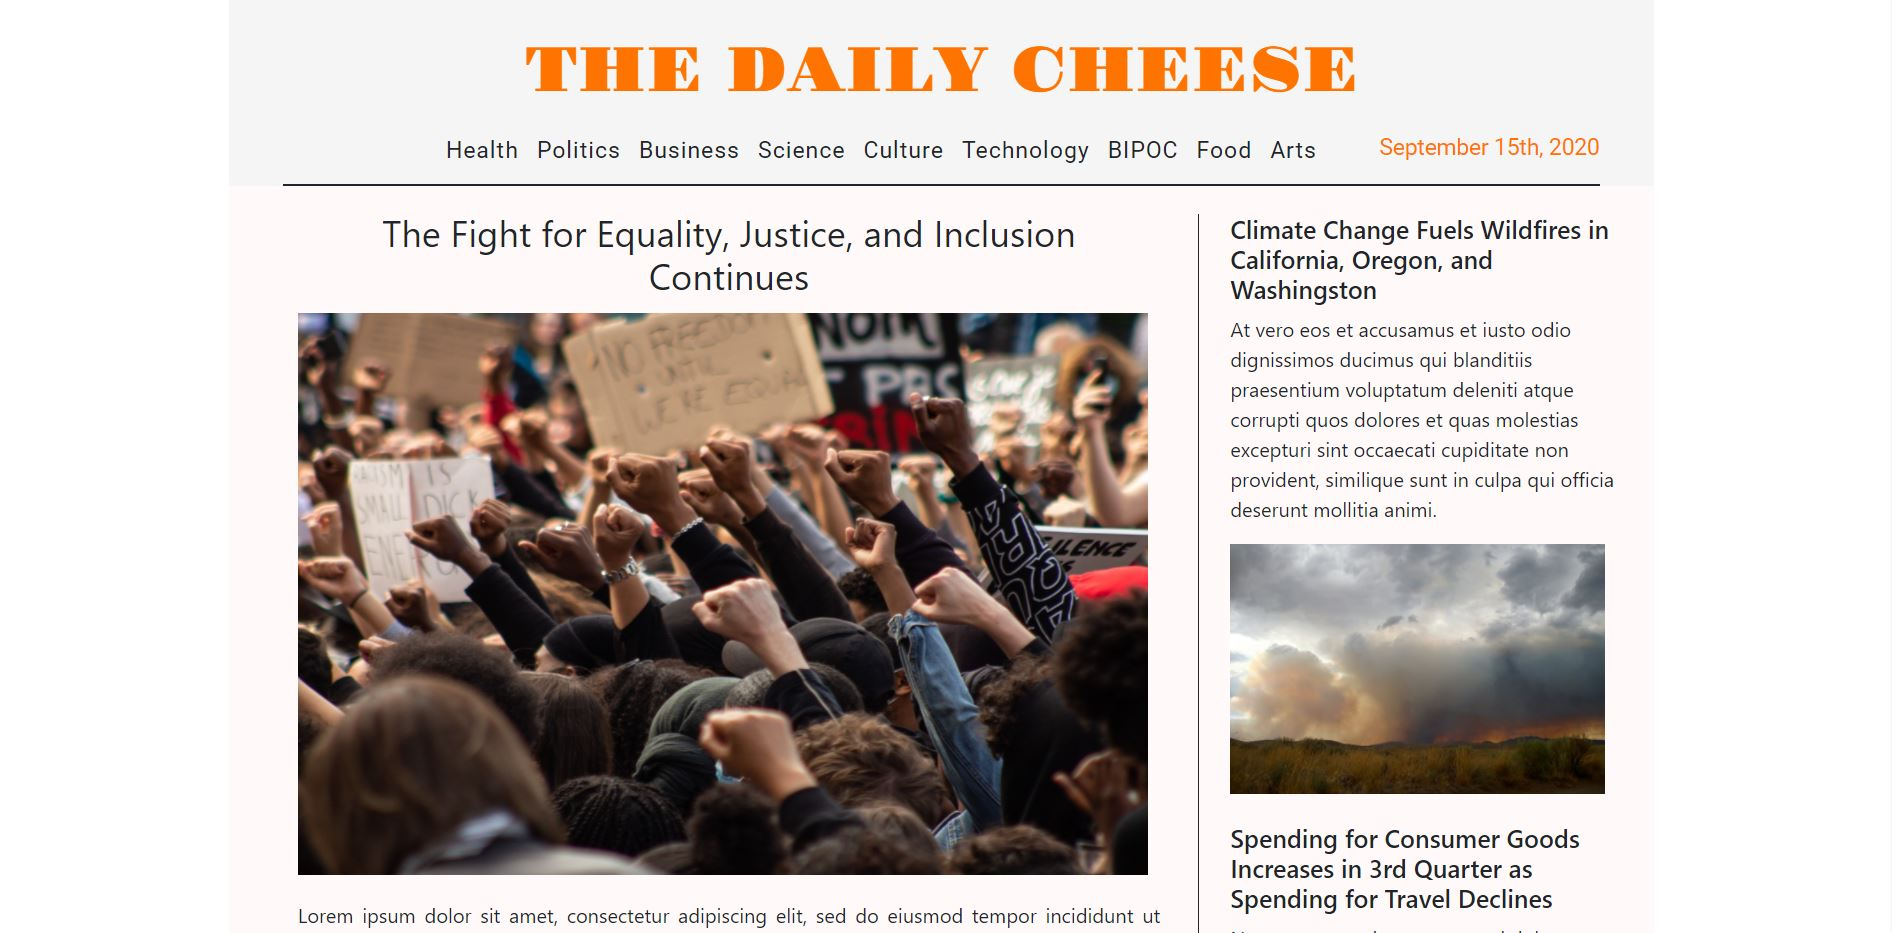
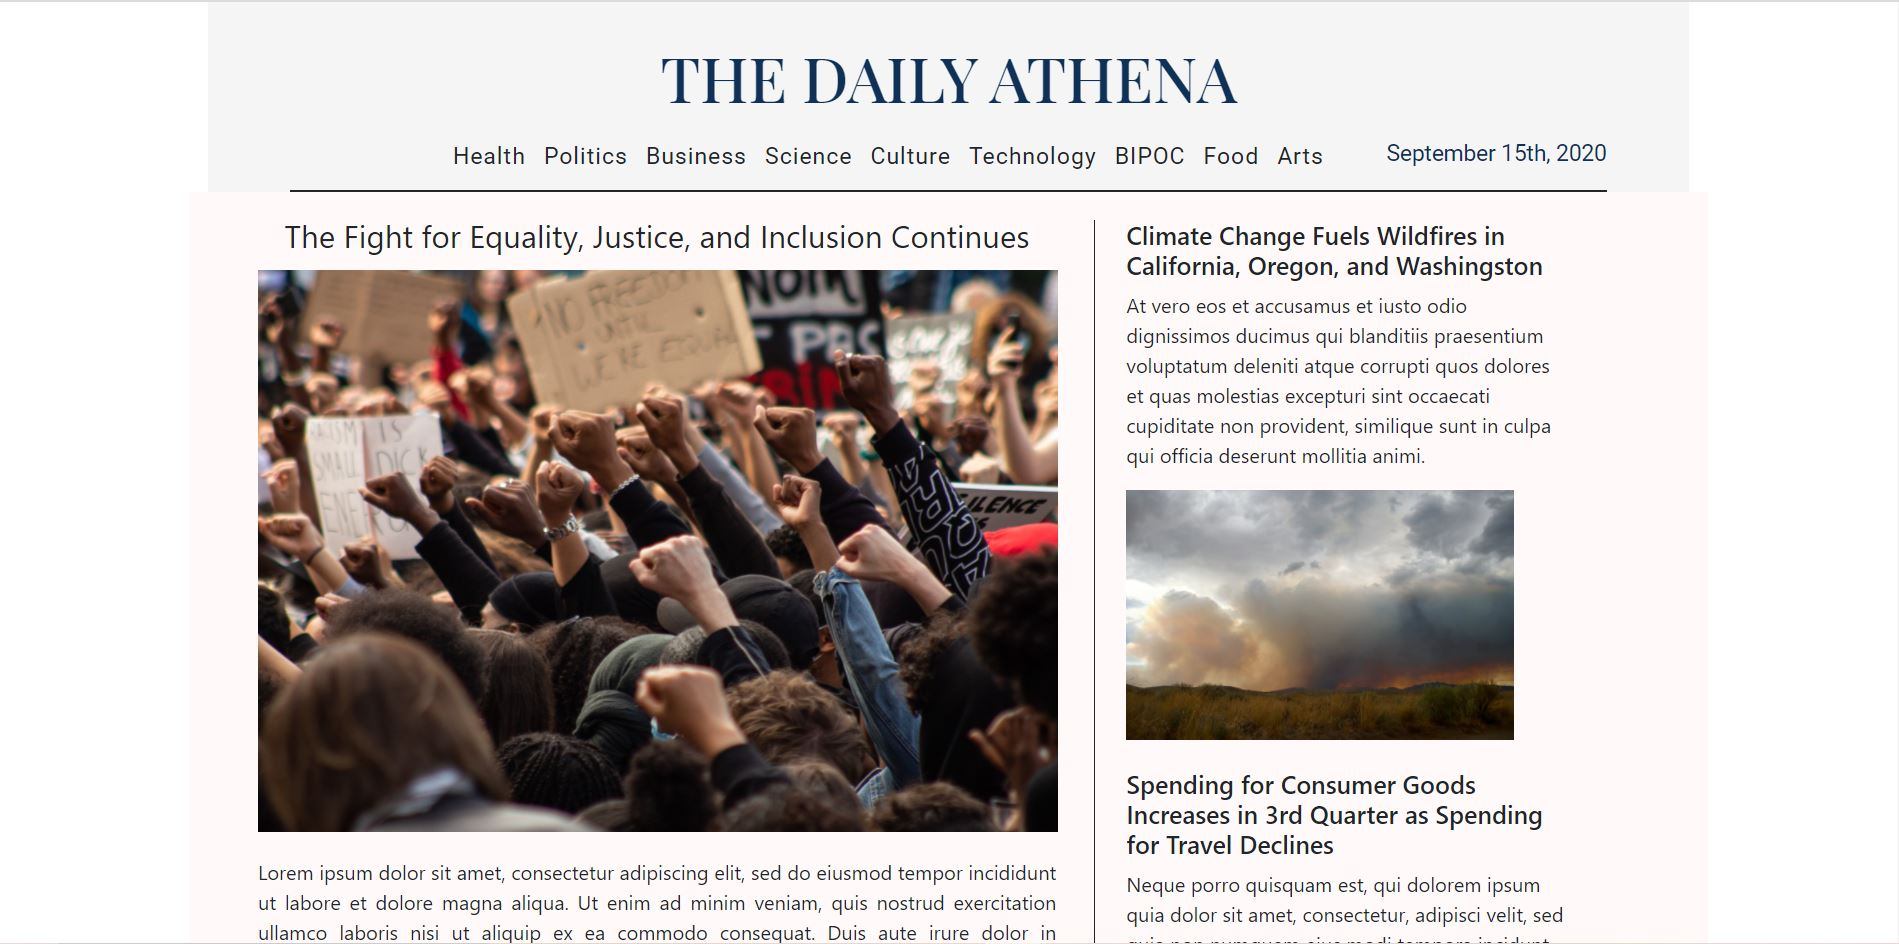
updated faux paper file

diff --git a/faux-paper.html b/faux-paper.html
@@ -6,15 +6,15 @@
    <title> Faux Mock Newspaper Front Page</title>
    <link rel="stylesheet" href="https://maxcdn.bootstrapcdn.com/bootstrap/4.5.2/css/bootstrap.min.css">
    <link rel="stylesheet" type="text/css" href="assets/css/style.css">
-   <link href="https://fonts.googleapis.com/css2?family=Gravitas+One&display=swap" rel="stylesheet">
    <link href="https://fonts.googleapis.com/css2?family=Roboto&display=swap" rel="stylesheet">
+   <link href="https://fonts.googleapis.com/css2?family=Playfair+Display:wght@500&display=swap" rel="stylesheet">
 </head>
 
 <body>
-   <div class="container">
+   <div class="container-row">
       <div class="row">
          <div class="col-sm-12">
-            <h1 id="main-title"> THE DAILY CHEESE </h1>
+            <h1 id="main-title"> THE DAILY ATHENA </h1>
             <div class="nav section">
                <div id="nav-container">
                   <ul id="topic-headlines">
@@ -34,11 +34,11 @@
          </div>
       </div>
       <div class="row" id="news-columns">
-         <div class="col-sm-8">
+         <div class="col-sm-7">
             <div id="news-sections">
                <h2 id="headliner"> The Fight for Equality, Justice, and Inclusion Continues</h2>
                <img id="headline-image" src="assets/images/protesting-hands.jpg"
-                  alt="Image of diverse hands in the air protesting" width="680" height="450">
+                  alt="Image of diverse hands in the air protesting" width="640" height="450">
                <p>Lorem ipsum dolor sit amet, consectetur adipiscing elit, sed do eiusmod tempor incididunt ut
                   labore et dolore magna aliqua. Ut enim ad minim veniam, quis nostrud exercitation ullamco
                   laboris nisi ut aliquip ex ea commodo consequat. Duis aute irure dolor in reprehenderit in
@@ -57,13 +57,13 @@
                   non numquam eius modi tempora incidunt ut labore et dolore magnam aliquam quaerat
                   voluptatem.
                </p>
-               <p>Dicta sunt explicabo. Nemo enim ipsam voluptatem quia voluptas sit aspernatur aut odit aut
-                  fugit, sed quia consequuntur magni dolores eos qui ratione voluptatem sequi nesciunt. Neque
-                  porro quisquam est.
-               </p>
+               <p>Sed ut perspiciatis unde omnis iste natus error sit voluptatem accusantium doloremque laudantium,
+                  totam rem aperiam, eaque ipsa quae ab illo inventore veritatis et quasi architecto beatae vitae dicta
+                  sunt explicabo. Nemo enim ipsam voluptatem quia voluptas sit. illo inventore veritatis et quasi
+                  architecto beatae vitae.</p>
             </div>
          </div>
-         <div class="col-sm-4">
+         <div class="col-sm-5">
             <div id="news-column2">
                <div class="news-sections-2">
                   <h5> Climate Change Fuels Wildfires in California, Oregon, and Washingston </h5>
@@ -74,7 +74,7 @@
                      provident, similique sunt in culpa qui officia deserunt mollitia animi.
                   </p>
                   <img src="assets/images/fires.jpg" alt="image of mountains having large clouds of smoke from fires"
-                     width="300" height="200">
+                     width="310" height="200">
                </div>
                <div class="news-sections-2">
                   <h5> Spending for Consumer Goods Increases in 3rd Quarter as Spending for Travel
@@ -89,6 +89,10 @@
                   <h5> How to Care for Your Skin While Masking</h5>
                   <p>Neque porro quisquam est, qui dolorem ipsum quia dolor sit amet, consectetur, adipisci velit,
                      sed quia non numquam eius modi tempora incidunt ut labore et dolore magnam.
+                  </p>
+                  <p>Sed ut perspiciatis unde omnis iste natus error sit voluptatem accusantium doloremque laudantium,
+                     totam rem aperiam, eaque ipsa quae ab illo inventore veritatis et quasi architecto beatae vitae
+                     dicta sunt explicabo. Nemo enim ipsam voluptatem quia voluptas sit
                   </p>
                </div>
             </div>

diff --git a/assets/css/style.css b/assets/css/style.css
@@ -1,15 +1,17 @@
 /* Faux Mock Newspaper Front Page CSS */
 
-.container {
+.container-row {
 	background-color: hsl(0, 0%, 96%);
+	width: 78%;
+	margin: 0 auto;
 }
 
 #main-title {
 	text-align: center;
 	margin-top: 30px;
-	color: #ff7400;
+	color: #0f3057;
 	font-size: 50px;
-	font-family: 'Gravitas One', cursive;
+	font-family: 'Playfair Display', serif;
 }
 
 #nav-container {
@@ -39,7 +41,7 @@ ul li {
 	float: right;
 	font-size: 18px;
 	margin-left: 50px;
-	color: #ff7400;
+	color: #0f3057;
 	font-family: 'Roboto', sans-serif;
 }
 
@@ -56,6 +58,7 @@ ul li {
 #news-column2 {
 	border-left-style: solid;
 	border-width: 1px;
+	width: 80%;
 }
 
 .news-sections-2 {
@@ -66,8 +69,8 @@ ul li {
 #headliner {
 	text-align: center;
 	margin-top: 20px;
-	font-size: 29px;
-	font-weight: 450;
+	font-size: 25px;
+	font-weight: 490;
 	padding-bottom: 5px;
 }
 
@@ -76,7 +79,6 @@ ul li {
 }
 
 footer {
-	width: 100%;
 	bottom: 0;
 	background-color: #C0C0C0;
 }
@@ -86,7 +88,7 @@ footer {
 	font-size: 16px;
 	text-align: center;
 	padding: 5px 0;
-	padding-top: 15px;
+	padding-top: 12px;
 	color: #ff7400;
 }
 
@@ -114,7 +116,6 @@ footer {
 }
 
 .container {
-	/* background-color: #835858; */
 	background-color: white;
 	margin-top: 110px;
 	width: 907px;

diff --git a/mock-aboutus.html b/mock-aboutus.html
@@ -48,7 +48,7 @@
             </ul>
         </div>
     </nav>
-    <div class="container">
+    <div class="container" id="mission-section">
         <div class="row">
             <div class="col-sm-6" id="col-1">
                 <h1 id="col-title1"> "People who love to eat are always the best people."</h1>
